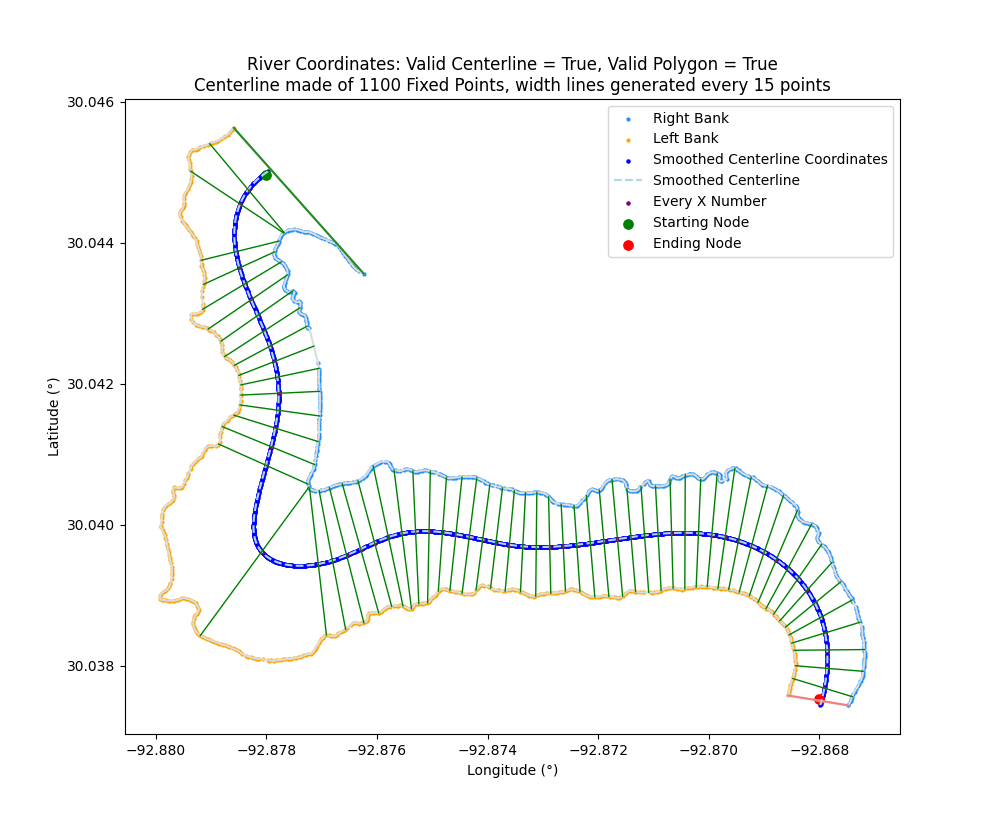
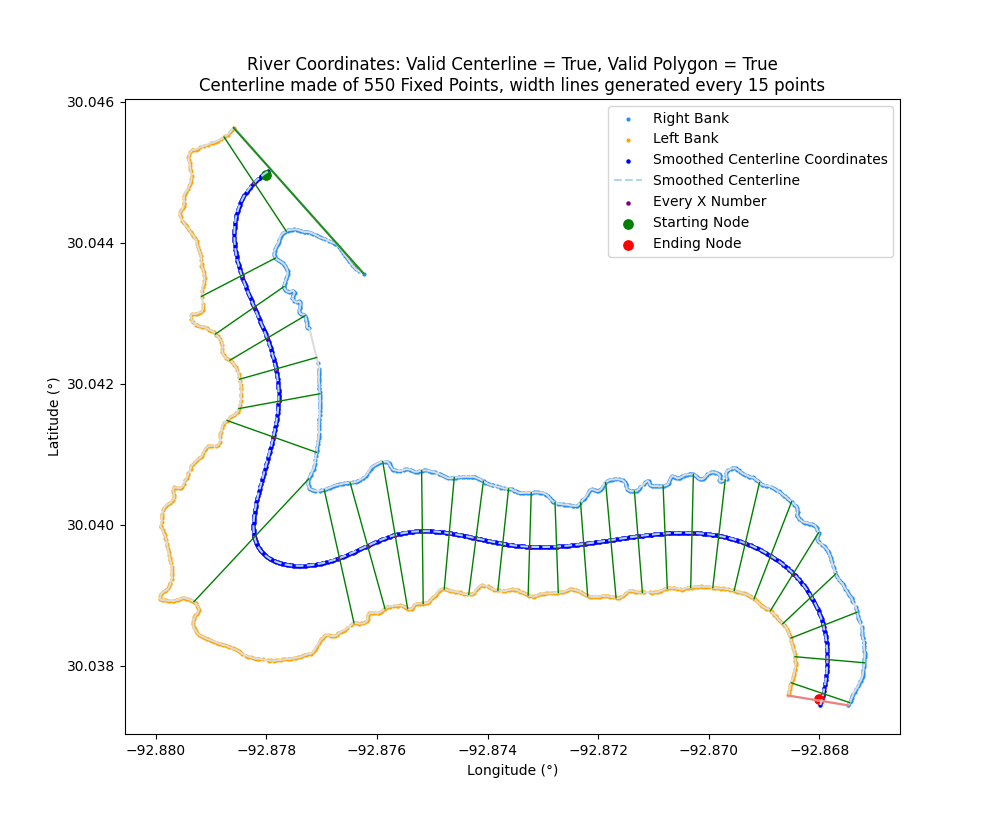
bug fix: (cutoff=800) verify width linesgenearted intersect the centerline and lie within the poylgon

Changed region(s): [[0.217, 0.1818, 0.868, 0.8485], [0.186, 0.0909, 0.837, 0.1212]]

diff --git a/centerline_width/centerline.py b/centerline_width/centerline.py
@@ -214,16 +214,29 @@ def riverWidthFromCenterlineCoordinates(csv_data=None,
 				point_intersection = Point(line_intersection_points.geoms[i].x, line_intersection_points.geoms[i].y)
 				distance_between = Point(centerline_point).distance(point_intersection)
 				distances_between_centerline_and_point.append(distance_between)
+
 			# collect the two closest points
 			index_of_sorted_list = sorted(range(len(distances_between_centerline_and_point)),key=distances_between_centerline_and_point.__getitem__)
 			smallest_point = line_intersection_points.geoms[index_of_sorted_list[0]]
 			second_smallest_point = line_intersection_points.geoms[index_of_sorted_list[1]]
 			if not intersectsTopOrBottomOfBank(smallest_point, second_smallest_point): # only save width lines that do not touch the artifical top/bottom
+
+				# Verify linestring contains the centerline (avoid making connections outside of polygon)
+				linestring_generated = LineString([Point(smallest_point.x, smallest_point.y), Point(second_smallest_point.x, second_smallest_point.y)])
+				if not linestring_generated.distance(Point(centerline_point)) < 1e-8: 
+					# linestring does not contains the centerline
+					# find a new second_smallest_point that falls on the centerline
+					for i in index_of_sorted_list: # search for new point in order of distance (smallest -> greatest)
+						second_smallest_point = line_intersection_points.geoms[index_of_sorted_list[i]]
+						linestring_generated = LineString([Point(smallest_point.x, smallest_point.y), Point(second_smallest_point.x, second_smallest_point.y)])
+						if smallest_point != second_smallest_point: # ignore current smallest_point (make a unique pair)
+							if linestring_generated.distance(Point(centerline_point)) < 1e-8:
+								break # once a linestring is found that lies within polygon, break out of search
+
+				# linestring contains the centerline, save coordinates
 				left_width_coordinates[centerline_point] = (smallest_point.x, smallest_point.y)
 				right_width_coordinates[centerline_point] = (second_smallest_point.x, second_smallest_point.y)
-				# Verify that closest pair of points that form the line lie within the polygon
-				print("TODO: bug fix: check if a linestring lies outside a polygon")
-	
+
 	# Determine lines that have multiple intersections to flag/remove
 	all_linestrings = []
 	linestring_with_centerlines = {}

diff --git a/river_centerline_width_example.py b/river_centerline_width_example.py
@@ -21,9 +21,6 @@ if __name__ == "__main__":
 	#cutoff = 700 # invalid centerline, valid path, valid polgyon, invalid starting node, valid ending node
 	#cutoff = 1000 # invalid centerline, invalid path, invalid polgyon, invalid starting node, valid ending node
 
-	# Debugging:
-	#cutoff = 800 # TODO: debug lines on the outside of the polygon
-
 	# Plot river banks
 	#centerline_width.plotCenterline(csv_data="data/river_coords.csv", 
 	#								save_plot_name="data/river_coords_centerline.png", 
